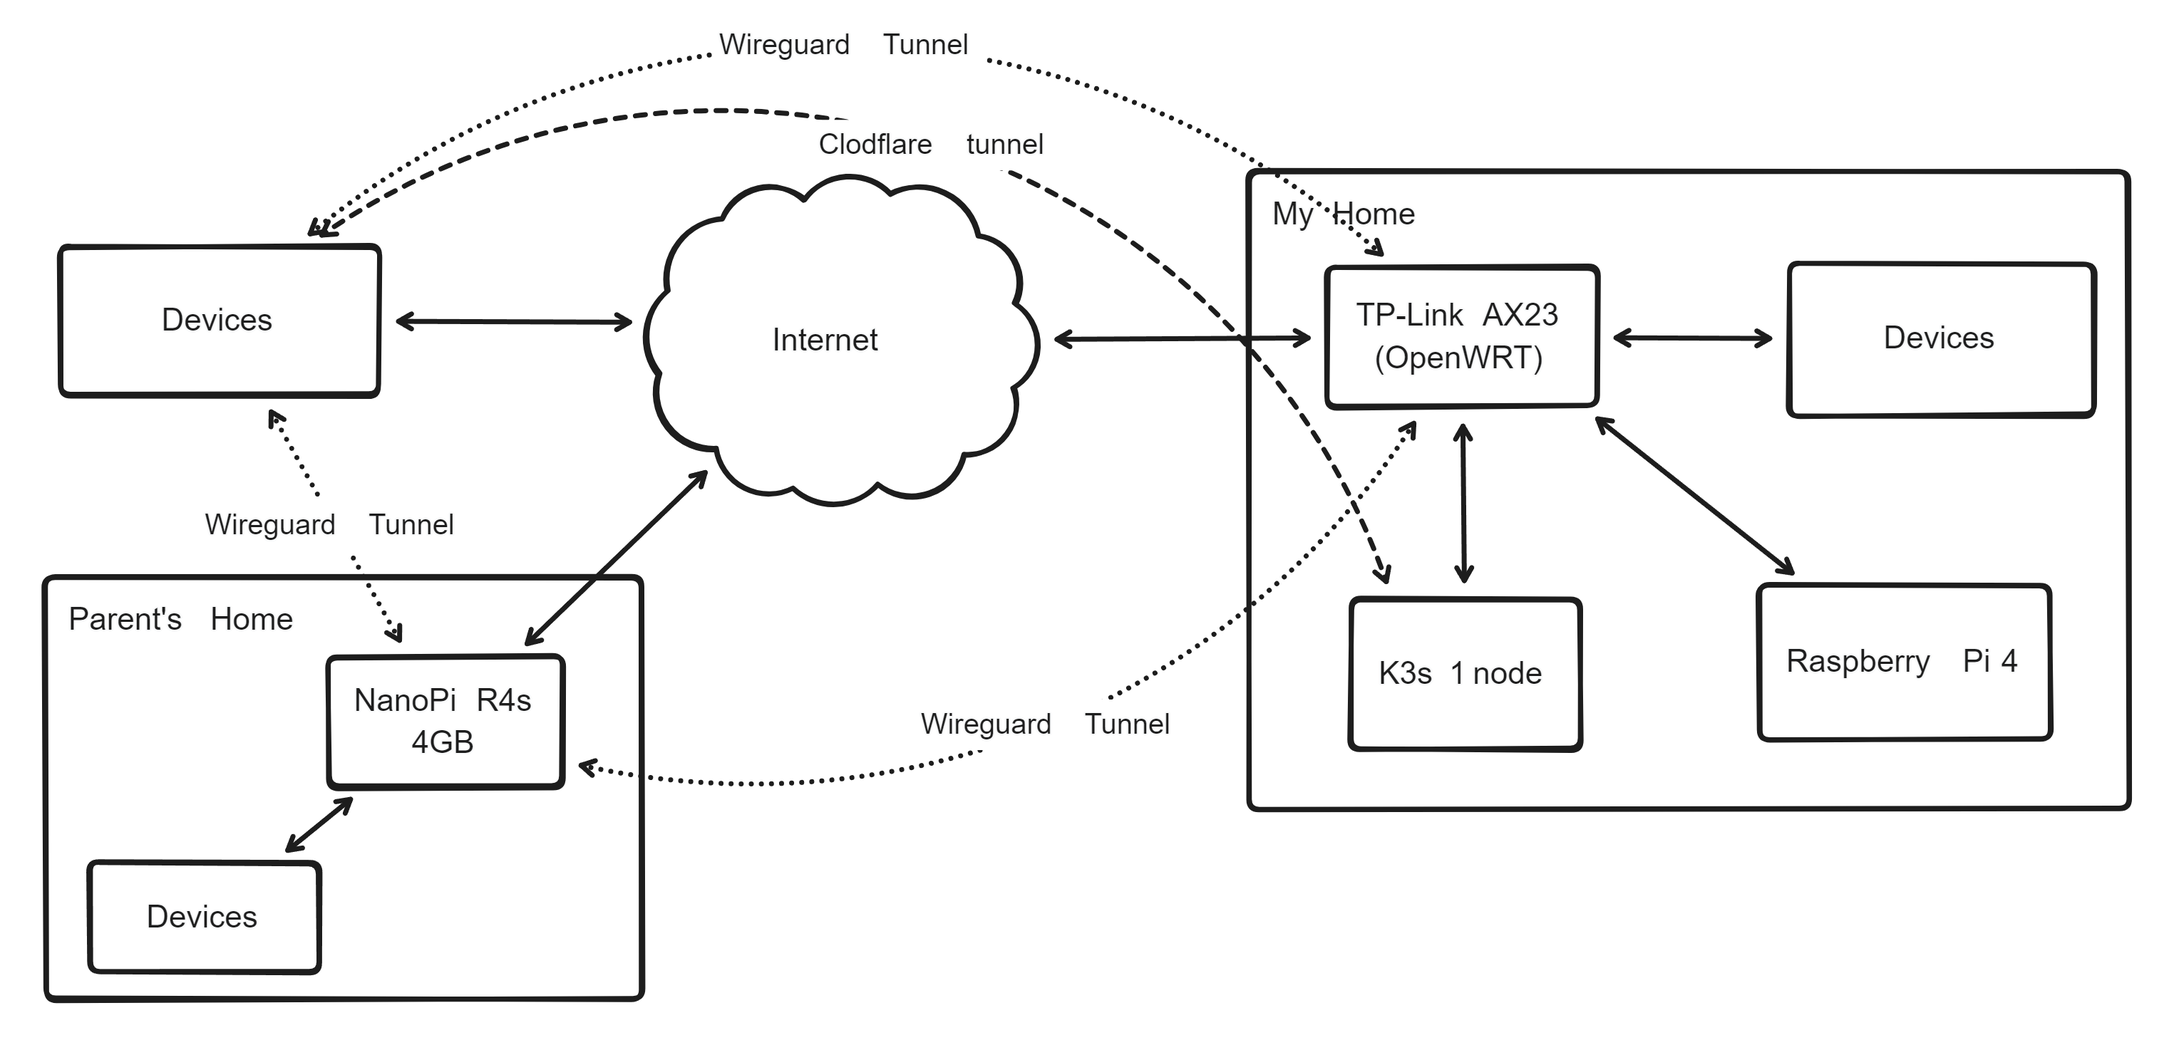
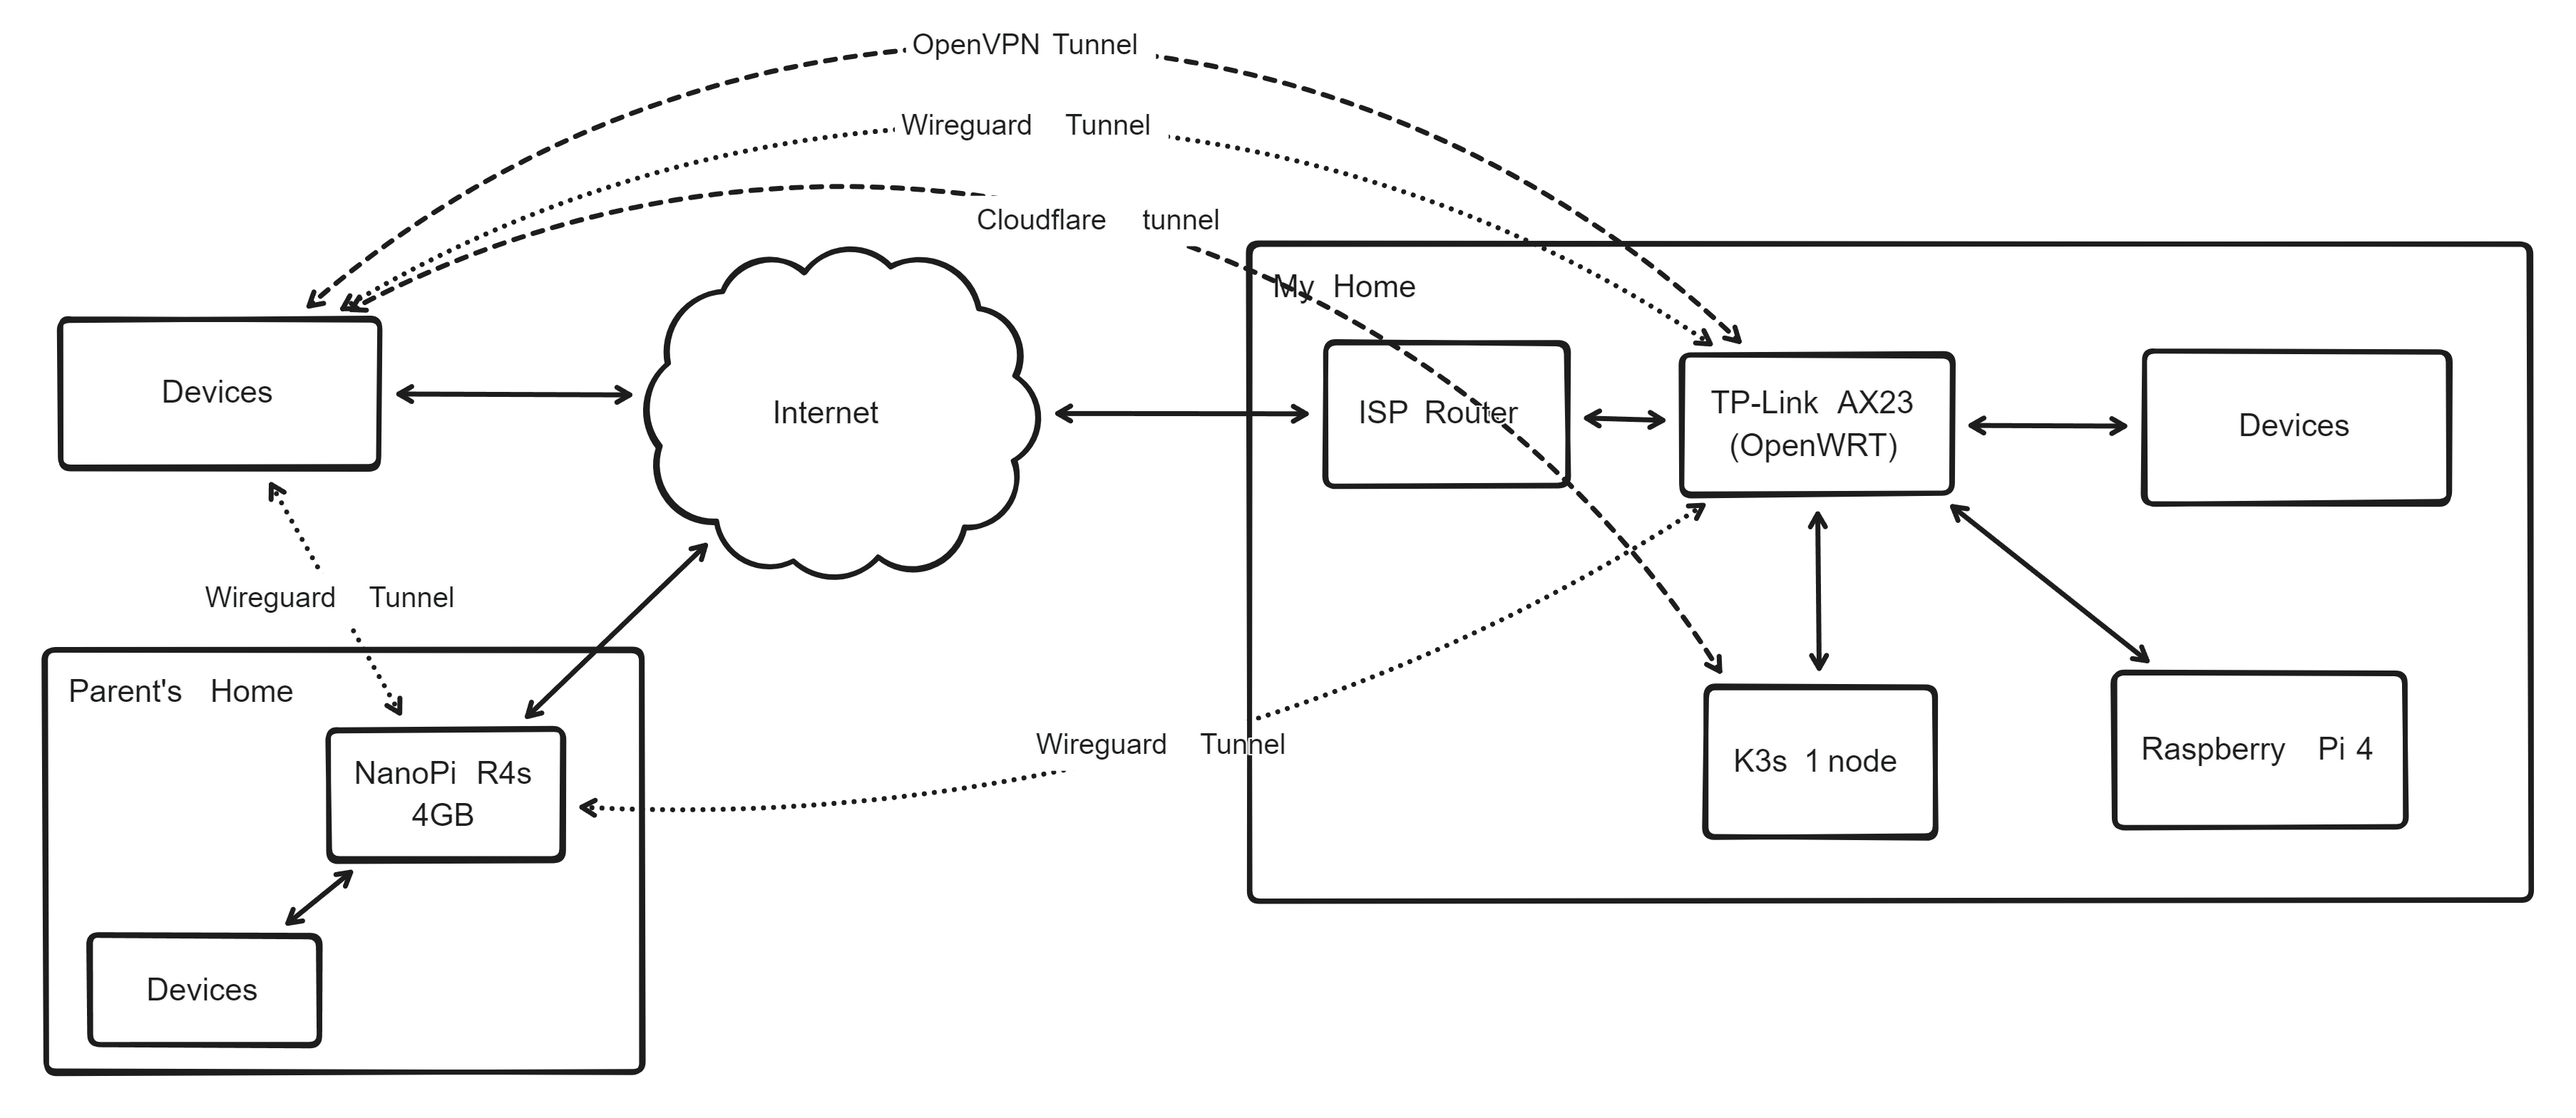
update homelab

diff --git a/content/posts/2024-12-07_homelab/index.md b/content/posts/2024-12-07_homelab/index.md
@@ -2,7 +2,6 @@
 title = "Homelab"
 description = ""
 date = "2024-12-07"
-draft = true
 +++
 
 I've post about [write a kubernetes contoller](@/posts/2024-11-19_cloudflare-tunnels-operator/index.md) and said that I have a homelab. Now, I want to tell how I setup my homelab.
@@ -17,11 +16,11 @@ My current setup is relatively simple,
   - 512 GB Nvme SSD
   - 4TB HDD
 - TP-Link AX23 with OpenWRT installed
-- A Raspberry Pi 4 4GB
+- A Raspberry Pi 4 4GB for Tvheadend
 
 ## GitOps
 
-GitOps is the main reason why I chose to use kubernetes instead of docker, having a single source of truth for the state of my services is really nice.
+GitOps is the main reason why I chose to use kubernetes instead of docker, having a single source of truth for the state of my services is really nice. I could achive GitOps using docker with portainer but I want to deep dive into kubernetes and installing k3s is easy enough. I use FluxCD as my GitOps
 
 ## Networking
 
@@ -30,7 +29,7 @@ GitOps is the main reason why I chose to use kubernetes instead of docker, havin
 
 Networking in my homelab is primarily divided into my parent's home network and my home network which is divided into default, guest, IoT, Wireguard, and OpenVPN that have their own firewall rule.
 
-```
+```text
 Parent's Home 192.168.1.0/24
 Home default  192.168.2.0/24
 Home guest    192.168.3.0/24
@@ -39,4 +38,10 @@ Wireguard     192.168.100/24
 OpenVPN       192.168.101/24
 ```
 
-My home default network can access IoT network but the opposite can't
+My home default network can other networks but the IoT and guest network can only access the internet for security reasons.
+
+There are 2 router, ONT from ISP which I can't remove, and TP-Link AX23 which I install with OpenWRT. Since having 2 router is annoying, I enable DMZ from ISP router to my router and disable NAT on ISP router to prevent issue that occur when using double NAT.
+
+### Tunnel
+
+There are 3 type of tunnels I use, Wireguard VPN and OpenVPN, and Cloudflare Tunnel, each have their own usecases. Wireguard is the default tunnel, OpenVPN is when using Wireguard is impossible, and Cloudflare Tunnel is for public acess.
